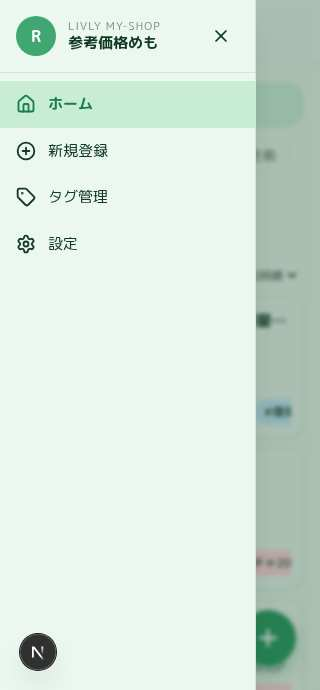
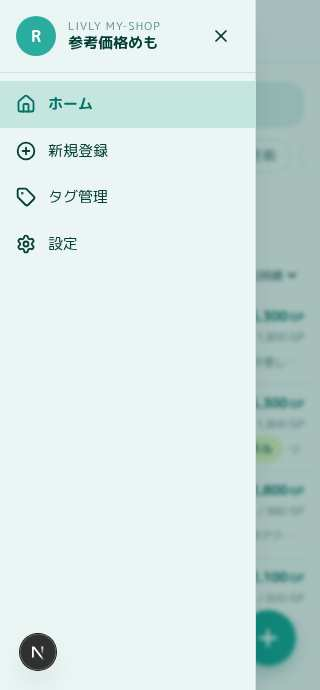
Convert home list to dense rows and shift palette to turquoise
- Replace bordered card layout with a divider-separated list. Each row
  packs name + reference price (top), category/date + min price
  (middle), and tags + truncated description (bottom).
- Swap unicode emoji for lucide icons so non-emoji-font environments
  (Linux Chromium, etc.) render the meta line correctly.
- Shift the palette from emerald to a turquoise-leaning teal: accent
  #15a496 / deep #047366 with a paler turquoise mist background and
  darker teal-forest body text.

https://claude.ai/code/session_01QfKFPG59Pejpqns5ZAaJf6

diff --git a/src/components/ItemCard.tsx b/src/components/ItemCard.tsx
@@ -2,17 +2,16 @@
 
 import Link from "next/link";
 import { useEffect, useState } from "react";
-import { CalendarDays, ImageIcon } from "lucide-react";
+import { ImageIcon, Tag as TagIcon, CalendarDays } from "lucide-react";
 import type { Item, Tag } from "@/lib/db";
 import { formatPrice } from "@/lib/utils/parsePrice";
 import TagChip from "./TagChip";
 
 function formatDate(ms: number): string {
   const d = new Date(ms);
-  const y = d.getFullYear();
   const m = String(d.getMonth() + 1).padStart(2, "0");
   const day = String(d.getDate()).padStart(2, "0");
-  return `${y}-${m}-${day}`;
+  return `${d.getFullYear()}-${m}-${day}`;
 }
 
 export default function ItemCard({
@@ -37,58 +36,63 @@ export default function ItemCard({
   return (
     <Link
       href={`/items/${item.id}`}
-      className="block rounded-2xl bg-cream border border-beige hover:border-gold/50 active:border-gold transition-colors shadow-[0_2px_8px_-4px_rgba(26,125,77,0.2)] overflow-hidden"
+      className="flex gap-2.5 px-2 py-2 hover:bg-beige/40 active:bg-beige/60 transition-colors"
     >
-      <div className="flex gap-3 p-3">
-        <div className="shrink-0 w-20 h-20 rounded-xl bg-beige/70 border border-beige overflow-hidden flex items-center justify-center text-muted">
-          {thumbUrl ? (
-            // eslint-disable-next-line @next/next/no-img-element
-            <img
-              src={thumbUrl}
-              alt={item.name}
-              className="w-full h-full object-cover"
-            />
-          ) : (
-            <ImageIcon size={28} strokeWidth={1.6} />
-          )}
+      <div className="shrink-0 w-14 h-14 rounded-lg bg-beige/60 border border-beige overflow-hidden flex items-center justify-center text-muted">
+        {thumbUrl ? (
+          // eslint-disable-next-line @next/next/no-img-element
+          <img
+            src={thumbUrl}
+            alt={item.name}
+            className="w-full h-full object-cover"
+          />
+        ) : (
+          <ImageIcon size={20} strokeWidth={1.6} />
+        )}
+      </div>
+      <div className="min-w-0 flex-1">
+        <div className="flex items-baseline justify-between gap-2">
+          <h3 className="font-bold text-[14px] text-text truncate">
+            {item.name || "(名称未設定)"}
+          </h3>
+          <span className="shrink-0 font-bold text-[13px] text-gold-deep whitespace-nowrap tabular-nums">
+            {formatPrice(item.refPriceMin)}〜{formatPrice(item.refPriceMax)}
+            <span className="text-[11px] font-medium ml-0.5">GP</span>
+          </span>
         </div>
-        <div className="min-w-0 flex-1">
-          <div className="flex items-baseline gap-2">
-            <h3 className="font-bold text-[15px] text-text truncate">
-              {item.name || "(名称未設定)"}
-            </h3>
+        <div className="flex items-baseline justify-between gap-2 text-[11px] mt-0.5">
+          <div className="text-muted truncate flex items-center gap-1">
+            {item.category && (
+              <>
+                <TagIcon size={11} strokeWidth={2.2} className="shrink-0" />
+                <span className="truncate">{item.category}</span>
+                <span className="mx-0.5">·</span>
+              </>
+            )}
+            <CalendarDays size={11} strokeWidth={2.2} className="shrink-0" />
+            <span className="whitespace-nowrap">{formatDate(item.checkedAt)}</span>
           </div>
-          {item.category && (
-            <div className="text-[11px] text-muted mt-0.5">
-              🏷 {item.category}
-            </div>
-          )}
-          <div className="mt-1.5 leading-snug whitespace-nowrap">
-            <span className="font-bold text-gold-deep text-[14px]">
-              {formatPrice(item.refPriceMin)}〜{formatPrice(item.refPriceMax)}GP
-            </span>
-            <span className="text-muted mx-1.5 text-[12px]">/</span>
-            <span className="text-text/70 text-[12px]">
-              {formatPrice(item.minPrice)}GP
-            </span>
-          </div>
-          <div className="flex items-center justify-between mt-1.5 gap-2">
-            <div className="flex items-center gap-1 text-[11px] text-muted whitespace-nowrap shrink-0">
-              <CalendarDays size={12} />
-              <span>{formatDate(item.checkedAt)}</span>
-            </div>
-            <div className="flex items-center gap-1 overflow-hidden min-w-0">
-              {itemTags.slice(0, 2).map((t) => (
-                <TagChip key={t.id} tag={t} />
-              ))}
-              {itemTags.length > 2 && (
-                <span className="text-[11px] text-muted shrink-0">
-                  +{itemTags.length - 2}
-                </span>
-              )}
-            </div>
-          </div>
+          <span className="shrink-0 text-text/65 tabular-nums whitespace-nowrap">
+            / {formatPrice(item.minPrice)} GP
+          </span>
         </div>
+        {(itemTags.length > 0 || item.description) && (
+          <div className="flex items-center gap-1.5 mt-1 min-w-0">
+            {itemTags.slice(0, 3).map((t) => (
+              <TagChip key={t.id} tag={t} />
+            ))}
+            {itemTags.length > 3 && (
+              <span className="text-[10px] text-muted shrink-0">
+                +{itemTags.length - 3}
+              </span>
+            )}
+            {item.description && (
+              <span className="text-[11px] text-muted truncate min-w-0">
+                {item.description}
+              </span>
+            )}
+          </div>
+        )}
       </div>
     </Link>
   );

diff --git a/src/app/globals.css b/src/app/globals.css
@@ -1,18 +1,18 @@
 @import "tailwindcss";
 
 :root {
-  /* Emerald-leaning pastel palette. Class names kept (cream/beige/gold) for stability. */
-  --color-cream: #ecf7f0;       /* page background — pale emerald */
-  --color-beige: #c8ecd6;       /* card border / soft chip bg */
-  --color-beige-deep: #9bd9b0;  /* deeper emerald wash */
-  --color-gold: #2e9d65;        /* primary accent (CTA, FAB) — emerald */
-  --color-gold-deep: #1a7d4d;   /* deep emerald for titles / prices / active */
+  /* Turquoise-leaning emerald pastel palette. Class names kept (cream/beige/gold). */
+  --color-cream: #ebf6f4;       /* page background — pale turquoise mist */
+  --color-beige: #c4e6df;       /* row divider / soft chip bg */
+  --color-beige-deep: #8fd0c4;  /* deeper teal wash */
+  --color-gold: #15a496;        /* primary accent (CTA, FAB) — turquoise */
+  --color-gold-deep: #047366;   /* deep teal for titles / prices / active */
   --color-pink: #ffd6e0;        /* tag: gacha */
-  --color-mint: #d8f0bf;        /* tag: category — lime-leaning so it stays distinct from bg */
+  --color-mint: #d8f0bf;        /* tag: category — lime so it stays distinct */
   --color-sky: #c7e9fb;         /* tag: custom */
   --color-lavender: #e0d6ff;    /* tag: period */
-  --color-text: #133a25;        /* main text — dark emerald forest */
-  --color-muted: #6e9080;       /* muted — sage */
+  --color-text: #053f38;        /* main text — dark teal-forest */
+  --color-muted: #5a8a82;       /* muted — sage-teal */
 
   --background: var(--color-cream);
   --foreground: var(--color-text);
@@ -52,8 +52,8 @@ body {
 .paper {
   background-color: var(--color-cream);
   background-image:
-    radial-gradient(rgba(26, 125, 77, 0.05) 1px, transparent 1px),
-    radial-gradient(rgba(26, 125, 77, 0.03) 1px, transparent 1px);
+    radial-gradient(rgba(4, 115, 102, 0.05) 1px, transparent 1px),
+    radial-gradient(rgba(4, 115, 102, 0.03) 1px, transparent 1px);
   background-position: 0 0, 8px 8px;
   background-size: 16px 16px;
 }

diff --git a/src/components/Fab.tsx b/src/components/Fab.tsx
@@ -6,7 +6,7 @@ export default function Fab({ href }: { href: string }) {
     <Link
       href={href}
       aria-label="新規登録"
-      className="fixed bottom-6 right-6 z-20 w-14 h-14 rounded-full bg-gold text-white shadow-[0_8px_20px_-6px_rgba(26,125,77,0.55)] hover:bg-gold-deep active:scale-95 transition-all flex items-center justify-center"
+      className="fixed bottom-6 right-6 z-20 w-14 h-14 rounded-full bg-gold text-white shadow-[0_8px_20px_-6px_rgba(4,115,102,0.55)] hover:bg-gold-deep active:scale-95 transition-all flex items-center justify-center"
     >
       <Plus size={26} strokeWidth={2.6} />
     </Link>

diff --git a/src/app/page.tsx b/src/app/page.tsx
@@ -117,7 +117,7 @@ export default function Home() {
       {filtered.length === 0 ? (
         <EmptyState hasItems={totalCount > 0} />
       ) : (
-        <ul className="space-y-2.5">
+        <ul className="divide-y divide-beige/70 -mx-2">
           {filtered.map((item) => (
             <li key={item.id}>
               <ItemCard item={item} tags={tags ?? []} />

diff --git a/src/app/layout.tsx b/src/app/layout.tsx
@@ -17,7 +17,7 @@ export const metadata: Metadata = {
 };
 
 export const viewport: Viewport = {
-  themeColor: "#ecf7f0",
+  themeColor: "#ebf6f4",
   width: "device-width",
   initialScale: 1,
   maximumScale: 1,
